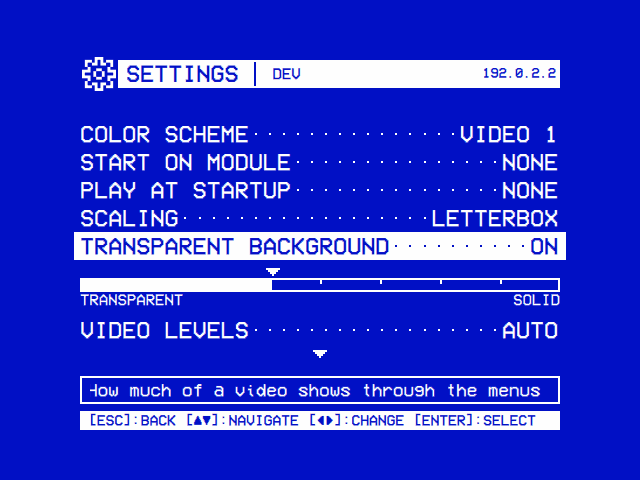
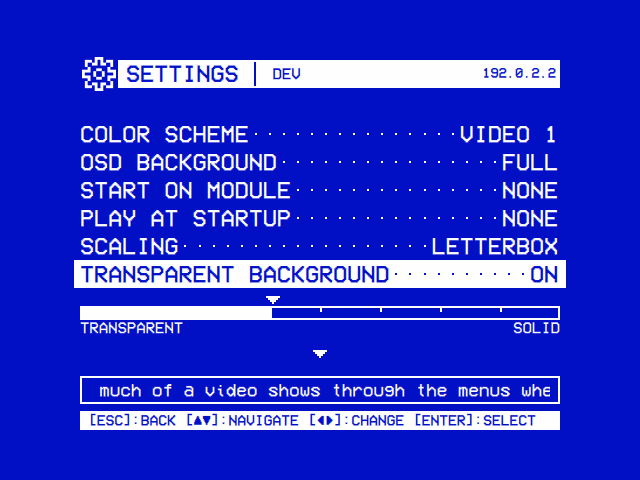
feat: OSD Background in Settings: Full, Off or Window
The owner asked for a general setting for the OSD's background, with
Full, Off and Window.

Settings → OSD Background (app.osd_background, Full by default):

- Full: the colour scheme's background over the whole screen, as before.
- Off: none. The menus on black, as a deck's on-screen display with
  nothing playing, in whichever of the scheme's two colours is the
  lighter, so a scheme with dark text (T-120) stays legible.
- Window: a window of the scheme's background behind the menus, framed
  in its colour, black around it. The window is the area the views lay
  their content out in, with a margin on every side, on art pixels.

OsdGround (views/Components) draws it: under every view in Main.qml,
and in each layer that hides the view under it (PromptScreen, the
on-screen keyboard and info screen below the title bar, the NFC card
writer, Bluetooth's details), so the window or the black holds under
every dialog. Over a video behind the menus (Transparent Background)
the ground keeps the setting's solidity, and in Window only the window
lies over the picture, which shows whole around it. The loading screen
and the boot screen keep their full-screen ground: the tape's picture,
not the OSD's.

Docs: the README's highlights and Settings tour (the settings
screenshot retaken, Window and Off added), ARCHITECTURE (OsdGround, the
colours in Off, the ground over a video) and CONTRIBUTING.

Claude-Session: https://claude.ai/code/session_01BPj7F5bUAW2FbHbUrDiQbs

Changed region(s): [[0.0938, 0.3125, 0.9062, 0.7188], [0.125, 0.7812, 0.875, 0.8438], [0.7812, 0.3125, 0.875, 0.3438]]

diff --git a/Main.qml b/Main.qml
@@ -21,7 +21,9 @@ Window {
     visibility: Qt.platform.os === "osx" ? Window.AutomaticVisibility
                                          : Window.FullScreen
     visible: true
-    color: root.surfaceColor
+    // Under everything: what OSD BACKGROUND puts around its window (black
+    // but for FULL). OsdGround draws the ground itself, over it.
+    color: root.osdBackground === "Full" ? root.surfaceColor : "#000000"
 
     // --- Color Schemes ---
     readonly property var themes: ({
@@ -84,8 +86,18 @@ Window {
     })
     property var allThemes: themes  // may gain a "Custom" entry on startup
     property string currentTheme: "Video 1"
-    property string primaryColor:   (allThemes[currentTheme] || allThemes["Video 1"]).primary
-    property string surfaceColor:   (allThemes[currentTheme] || allThemes["Video 1"]).surface
+    readonly property var theme: allThemes[currentTheme] || allThemes["Video 1"]
+    // Settings' OSD BACKGROUND (app.osd_background), what the menus are drawn
+    // on (Components/OsdGround): "Full", the default, the scheme's background
+    // over the whole screen; "Window", a framed window of it behind what a
+    // view shows (osdWindow), black around it; "Off", none: black, the menus
+    // in whichever of the scheme's two colours is the lighter, as a deck's OSD
+    // with nothing playing. A scheme's dark text (T-120's) would vanish on
+    // black, so Off takes its background colour for the text instead.
+    property string osdBackground: "Full"
+    readonly property bool osdOff: osdBackground === "Off"
+    property string primaryColor:   osdOff ? lighterOf(theme.primary, theme.surface) : theme.primary
+    property string surfaceColor:   osdOff ? "#000000" : theme.surface
     // Two colours only, like a deck's on-screen display: everything is drawn in
     // the theme's primary colour on its surface colour. A selection is a solid
     // box with its text in the surface colour, and anything dimmed is dithered
@@ -101,6 +113,22 @@ Window {
     // pixel-drawn OSD elements (Components/Osd*, PixelIcon) are built on.
     readonly property int px: Math.max(1, Math.floor(sh / 240))
 
+    // OSD BACKGROUND's window: the area the views lay their content out in
+    // (74 to 566 across and 57 to 430 down, of 640×480: the title bar's logo
+    // to the hint bar), with 12 more on every side, on art pixels.
+    readonly property rect osdWindow: {
+        var left = snapPx(sw * 0.096875), right = snapPx(sw * 0.903125)
+        var top = snapPx(sh * 0.09375), bottom = snapPx(sh * 0.9208333)
+        return Qt.rect(left, top, right - left, bottom - top)
+    }
+    function snapPx(v) { return Math.round(v / px) * px }
+
+    // The lighter of two colours, by how bright the eye finds them.
+    function lighterOf(a, b) {
+        function luma(c) { var k = Qt.color(c); return 0.2126 * k.r + 0.7152 * k.g + 0.0722 * k.b }
+        return luma(a) >= luma(b) ? a : b
+    }
+
     Connections {
         target: appCore
         function onAppSettingChanged(key, value) {
@@ -110,6 +138,8 @@ Window {
                 root.backdropSolidity = root.solidityOf(value)
             } else if (key === "loading_effect") {
                 root.loadingEffect = value !== "Off"
+            } else if (key === "osd_background") {
+                root.osdBackground = root.osdBackgroundOf(value)
             } else if (key === "mouse_pointer") {
                 root.pointerSetting = String(value)
                 if (root.pointerShown)
@@ -157,6 +187,7 @@ Window {
         root.backdropSolidity = root.solidityOf(cfg.app && cfg.app.transparent_background)
         root.pointerSetting = String((cfg.app && cfg.app.mouse_pointer) || "5")
         root.loadingEffect = !(cfg.app && cfg.app.loading_effect === "Off")
+        root.osdBackground = root.osdBackgroundOf(cfg.app && cfg.app.osd_background)
 
         // Screensaver: the tracker starts disabled; this is the single place the
         // saved setting is applied (live changes land in onAppSettingChanged above,
@@ -332,6 +363,9 @@ Window {
         var s = String(raw === undefined || raw === null ? "" : raw).trim().toLowerCase()
         return s === "on" || s === "dim" || !isNaN(parseInt(s))
     }
+    function osdBackgroundOf(raw) {
+        return raw === "Window" || raw === "Off" ? raw : "Full"
+    }
     function solidityOf(raw) {
         var s = String(raw === undefined || raw === null ? "" : raw).toLowerCase()
         if (s === "on") return 0
@@ -346,12 +380,15 @@ Window {
         visible: root.videoActive
         z: root.videoBehind ? -2 : 5000
     }
-    Rectangle {
+    // What the menus are drawn on (OSD BACKGROUND), under every view. Over a
+    // video behind them, as solid as Transparent Background says, and in
+    // WINDOW only the window, the picture showing whole around it.
+    OsdGround {
         anchors.fill: parent
         z: -1
-        visible: root.videoBehind && root.backdropSolidity > 0
-        color: root.surfaceColor
-        opacity: root.backdropSolidity / 100
+        visible: !root.videoBehind || root.backdropSolidity > 0
+        opacity: root.videoBehind ? root.backdropSolidity / 100 : 1
+        surround: !root.videoBehind
     }
 
     // A running user script suppresses the screen saver too — a takeover script

diff --git a/views/Components/OsdGround.qml b/views/Components/OsdGround.qml
@@ -1,0 +1,48 @@
+import QtQuick
+
+// The ground the OSD is drawn on, as Settings' OSD BACKGROUND has it
+// (root.osdBackground):
+//   FULL    the colour scheme's background all over (the default);
+//   WINDOW  a window of it behind what a view shows (root.osdWindow), framed
+//           in the scheme's colour, black around it;
+//   OFF     none: black, the menus in the scheme's lighter colour on it, as a
+//           deck's OSD with nothing playing (root.surfaceColor is then black).
+//
+// Main.qml lays one under every view. A full-screen layer that hides the view
+// under it (PromptScreen, the on-screen keyboard, an info screen) lays its own,
+// so the window goes on under it just as it was. It is laid out in screen
+// coordinates, in a layer that fills the screen: anchors.fill its area, or a
+// strip of it (the keyboard's, below the title bar), and the window shows
+// through that strip as it lies on the screen.
+//
+//     OsdGround { anchors.fill: parent }
+Item {
+    id: ground
+
+    // Black around the window. Main.qml turns it off over a video playing
+    // behind the menus, which then shows there whole.
+    property bool surround: true
+
+    readonly property bool windowed: root.osdBackground === "Window"
+    clip: windowed
+
+    Rectangle {
+        anchors.fill: parent
+        visible: !ground.windowed || ground.surround
+        color: ground.windowed ? "#000000" : root.surfaceColor
+    }
+
+    // The window, framed: placed where it lies on the screen, whatever part of
+    // the screen this ground covers.
+    Rectangle {
+        visible: ground.windowed
+        x: root.osdWindow.x - ground.x
+        y: root.osdWindow.y - ground.y
+        width: root.osdWindow.width
+        height: root.osdWindow.height
+        color: root.surfaceColor
+        border.color: root.primaryColor
+        border.width: root.px
+        antialiasing: false
+    }
+}

diff --git a/views/Settings.qml b/views/Settings.qml
@@ -64,6 +64,19 @@ FocusScope {
             moduleId: ""
         })
 
+        // OSD Background — what the menus are drawn on (Components/OsdGround,
+        // read in Main.qml): the colour scheme's background over the whole
+        // screen, none (black), or a framed window of it behind the menus.
+        items.push({
+            type: "list_single",
+            key: "osd_background",
+            label: "OSD Background",
+            options: ["Full", "Off", "Window"],
+            value: root.osdBackgroundOf(appSettings["osd_background"]),
+            description: "What the menus are drawn on\n[FULL] The color scheme's background, all over  [OFF] None, the menus on black like a deck's on-screen display  [WINDOW] A framed window of it behind the menus, black around it",
+            moduleId: ""
+        })
+
         // Start on Module — pick a module to auto-launch into on startup.
         // Only present enabled modules as options so disabled ones won't display.
         // The setting is keyed by module id and the picker shows the display name

diff --git a/views/Components/PromptScreen.qml b/views/Components/PromptScreen.qml
@@ -18,7 +18,7 @@ import QtQuick
 //         currentIndex: choiceIndex
 //         hint: root.hints.back + ":BACK " + root.hints.navigate + ":NAVIGATE " + root.hints.select + ":SELECT"
 //     }
-Rectangle {
+Item {
     id: prompt
 
     // The question, or for a notice what happened: in the title bar.
@@ -40,7 +40,11 @@ Rectangle {
     default property alias content: extra.data
 
     anchors.fill: parent
-    color: root.surfaceColor
+
+    // Over the view it asks in, on the ground every view has (OSD BACKGROUND).
+    OsdGround {
+        anchors.fill: parent
+    }
 
     // The first answer in the window.
     property int firstShown: 0

diff --git a/views/Components/InfoPanel.qml b/views/Components/InfoPanel.qml
@@ -79,12 +79,12 @@ FocusScope {
                                        ? details.summary : (loading ? "loading…" : "")
     readonly property var rows: details.rows || []
 
-    // Everything under the title bar.
-    Rectangle {
+    // Everything under the title bar, on the ground every view has (OSD
+    // BACKGROUND): a window goes on under it as it was.
+    OsdGround {
         y: root.sh * 0.1916667 //92
         width: parent.width
         height: parent.height - y
-        color: root.surfaceColor
     }
 
     Row {

diff --git a/views/Components/OnScreenKeyboard.qml b/views/Components/OnScreenKeyboard.qml
@@ -79,12 +79,12 @@ FocusScope {
     readonly property real cellH: root.sh * 0.0666667 //32
     readonly property real fontSize: root.sh * 0.05 //24
 
-    // Everything under the title bar.
-    Rectangle {
+    // Everything under the title bar, on the ground every view has (OSD
+    // BACKGROUND): a window goes on under it as it was.
+    OsdGround {
         y: root.sh * 0.1916667 //92
         width: parent.width
         height: parent.height - y
-        color: root.surfaceColor
     }
 
     Column {

diff --git a/views/Components/NfcCardWriter.qml b/views/Components/NfcCardWriter.qml
@@ -143,9 +143,12 @@ FocusScope {
         }
     }
 
-    Rectangle {
+    Item {
         anchors.fill: parent
-        color: root.surfaceColor
+
+        OsdGround {
+            anchors.fill: parent
+        }
 
         Column {
             anchors.centerIn: parent

diff --git a/views/Bluetooth.qml b/views/Bluetooth.qml
@@ -311,9 +311,8 @@ FocusScope {
                 detailsText.scrollBy(1)
         }
 
-        Rectangle {
+        OsdGround {
             anchors.fill: parent
-            color: root.surfaceColor
         }
 
         AppBar {

diff --git a/ARCHITECTURE.md b/ARCHITECTURE.md
@@ -54,7 +54,7 @@ The guiding idea: **browse structured content, then hand off to the right tool f
     ModuleList.qml
     Settings.qml
     ...
-    Components/                     # shared QML components (AppBar, HintBar, MenuRow, HelpLine, ScrollMarks, TreeBrowser, InfoPanel, EntryOptions, PlaylistAdder, PlayerMenu, LoadingScreen, PromptScreen, MousePointer, OnScreenKeyboard, WebPlayerBrowse, WebPlayerLaunch, the Osd* elements, ChoiceOverlay, qmldir)
+    Components/                     # shared QML components (AppBar, HintBar, MenuRow, HelpLine, ScrollMarks, TreeBrowser, InfoPanel, EntryOptions, PlaylistAdder, PlayerMenu, LoadingScreen, PromptScreen, OsdGround, MousePointer, OnScreenKeyboard, WebPlayerBrowse, WebPlayerLaunch, the Osd* elements, ChoiceOverlay, qmldir)
     BootScreen.qml                  # boot screen of the 240-MP OS image (see os/README.md)
   Main.qml                          # app root
   CMakeLists.txt
@@ -284,7 +284,7 @@ With Settings → **Transparent Background** (`app.transparent_background`: how 
 - **`EmbeddedMpv`** (`src/player/EmbeddedMpv.h/.cpp`) is mpv as a library. libmpv is opened at run time with `QLibrary` (`libmpv.so.2`, or `libmpv.2.dylib` in Homebrew's prefixes), never linked, so the app runs where it is missing; `mpvController.embeddedAvailable()` says whether it loaded, and Settings offers the row only then. Its headers are optional at build time (`pkg-config mpv`, so `libmpv-dev` / Homebrew's mpv); without them `MP240_EMBEDDED_MPV` is left undefined and it is never available.
 - **The same session.** `sessionArgs()` builds the command line the subprocess gets, and `EmbeddedMpv::start()` turns it into options and a playlist: `--x=y` is option `x`, a repeated list option (`--script`, `--sub-file`, `--http-header-fields`) is gathered and set whole as a node array, so an item keeps any character, and an option this libmpv doesn't know is skipped with a warning where the mpv command line would refuse to start. On top: `vo=libmpv`, `idle=once` (it quits when its playlist has played out, as the process exits), `input-default-bindings=yes` (libmpv leaves them off). Decoding uses each profile's copy-back mode (Pi 4 `drm-copy,v4l2m2m-copy`, Pi 3 `v4l2m2m-copy`, Pi 5 `auto-copy-safe`, desktop Linux `vaapi-copy,nvdec-copy,no`, macOS `videotoolbox-copy`), the `mpv_video_args` override is not used, and libmpv reads no `mpv.conf`. The IPC socket, the OSC scripts and every signal work as for the process; there is no `DisplayHandoff`, since the app keeps the screen.
 - **The picture** comes from libmpv's software renderer (`MPV_RENDER_API_TYPE_SW`), on a thread of its own, at the pixel size of the **`VideoSurface`** item (`src/player/VideoSurface.h/.cpp`, `import MP240.Video`) that shows it: the same CPU colour conversion and scaling `--vo=drm` does on a Pi 4, into memory rather than a KMS buffer. It works on every scene graph backend. On a Pi 3 the CPU is short for it.
-- **Back** is mapped by the session's input.conf to `script-message 240mp-menu` (the OSC's own menu, while open, still takes it first). `detachToMenus()` then emits `playbackEnded(pos, dur, "stopped")`, unless its player has a menu of its own (below): the module saves where it got to, reports it stopped, and goes back, while the session goes on (`mpvController.background`). Its position is followed but no longer reported. `Main.qml` puts the `VideoSurface` over everything while a session plays full screen and under the views while `background` (`root.videoBehind`); the views draw no background of their own, so the picture is theirs, and the background colour lies between them at the setting's solidity (`root.backdropSolidity`). Full-screen dialogs keep their own background, and the title bar's logo gets a box of it.
+- **Back** is mapped by the session's input.conf to `script-message 240mp-menu` (the OSC's own menu, while open, still takes it first). `detachToMenus()` then emits `playbackEnded(pos, dur, "stopped")`, unless its player has a menu of its own (below): the module saves where it got to, reports it stopped, and goes back, while the session goes on (`mpvController.background`). Its position is followed but no longer reported. `Main.qml` puts the `VideoSurface` over everything while a session plays full screen and under the views while `background` (`root.videoBehind`); the views draw no background of their own, so the picture is theirs, and their ground (`OsdGround`, in OSD BACKGROUND's shape: all over, or only its window, the picture showing whole around it) lies between them at the setting's solidity (`root.backdropSolidity`). Full-screen dialogs keep their own ground, and the title bar's logo gets a box of it.
 - **The setting** is a slider in Settings: its line, `ON` or `OFF`, with the deck's tape bar (`OsdTapeBar`) under it from TRANSPARENT to SOLID, which ◄ ► move by 10 and save at once, so the menus over a video show each step. At SOLID none of the picture shows, but the video plays on, sound and all. Select turns the setting off (`Off`, the bar's lines left empty) and back on at the bar's value, as it does a module's toggle; ◄ ► turn it on too. The bar takes whole lines under its own, so the list scrolls by lines as before. Its first values, `On` and `Dim`, read as `0` and `60`. `100` was off until SOLID kept the video playing, and now reads as SOLID. `Main.qml`'s `backgroundOn()` and `MpvController::transparentBackground()` read the value the same way.
 - **Chosen again** (the same command line apart from `--start`), the session is not reloaded: `reattach()` brings it back full screen. A module resuming at the point it saved when back left it carries on where the picture is now; any other start (from the beginning, say) is sought.
 - **Back to it from the main menu.** Right after `loadAndPlay()` a player notes the session: `noteSession({ module, title, params })`, `params` being its own `navParams`. Every `loadAndPlay()` clears the note, so a player that notes nothing leaves none. While the session plays behind the menus, `backgroundNote` (`root.behindNote`) holds it, and the main menu (`views/ModuleList.qml`) leads with a row for it, `► <title>`, the cursor on it. Select opens the module with `{ resumePlayer: params }`, and its tree opens the player with them as if chosen from RECENTLY WATCHED. A player that finds its own video in `root.behindNote` skips its resume prompt and plays from the point back saved, so the same video chosen in the tree comes back at once too. YouTube (by `videoId`) and Local Files (by path, with the `plPos` and `shuffle` it was started with, so the command line matches) note their sessions. The other players don't yet, so their videos come back only by choosing them again.
@@ -652,9 +652,15 @@ A question or a notice, full screen, in the window every view has: the question 
 
 It only draws: the host keeps its keys, its cursor and its visibility, so a dialog becomes one by swapping its drawing for it. Items declared inside it go between the message and the answers, centring themselves across its width (the pairing code in `BluetoothPrompt`). Every question and notice in the app is one: the players' resume prompts and error screens, Settings' quit, the update's install, the script's run, a new button for Controls, Bluetooth pairing, and `ChoiceOverlay` (so `EntryOptions` and the Plex PLAY chooser) too.
 
+### OsdGround (`views/Components/OsdGround.qml`)
+
+What the OSD is drawn on, as Settings → **OSD Background** (`app.osd_background`, `root.osdBackground`) has it: **Full** (the default), the colour scheme's background all over; **Window**, a window of it behind what a view shows, framed in the scheme's colour, black around it; **Off**, none, black (with the colours above). The window (`root.osdWindow`) is the area the views lay their content out in, the title bar's logo to the hint bar, 74 to 566 across and 57 to 430 down at 640×480, with 12 more on every side, on art pixels.
+
+`Main.qml` lays one under every view (`z: -1`, over the window's own colour, black but for Full). Over a video behind the menus it is as solid as Transparent Background says, and in Window only the window is drawn (`surround: false`), the picture showing whole around it. A layer that hides the whole view under it lays its own (`PromptScreen`, the `OnScreenKeyboard` and `InfoPanel` below the title bar, `NfcCardWriter`, Bluetooth's DETAILS), never a `Rectangle` of `root.surfaceColor`, so the window goes on under it just as it was: it works in screen coordinates, the window placed where it lies on the screen whatever part of it the ground covers. `LoadingScreen` and the boot screen keep their own full-screen ground: the tape's picture, not the OSD's.
+
 ### VCR OSD elements
 
-The UI keeps to two colours, like a deck's on-screen display: the theme's `primary` on its `surface`. `Main.qml` maps `secondaryColor`, `tertiaryColor` and `accentColor` to `primaryColor`, so existing views follow without change. Within that:
+The UI keeps to two colours, like a deck's on-screen display: the theme's `primary` on its `surface`. `Main.qml` maps `secondaryColor`, `tertiaryColor` and `accentColor` to `primaryColor`, so existing views follow without change. Settings → **OSD Background** Off makes the two the theme's lighter colour and black (`surfaceColor` black, `primaryColor` whichever of `primary` and `surface` is lighter, so a theme with dark text, T-120, doesn't vanish), and every view follows that too. Within that:
 
 - a selection is a solid box with its text in `surfaceColor`;
 - anything dimmed is dithered with `Dither` instead of given a lower opacity;

diff --git a/README.md b/README.md
@@ -20,6 +20,7 @@ On a Raspberry Pi, 240-MP can also be the whole system. The **240-MP OS** image 
 - **Transparent Background.** Back from a video returns to the menus while the video keeps playing behind them, like a deck's menu over the tape, and the first row of the main menu takes it back to full screen. A Local Files or YouTube video first opens a menu of its own over the picture: its module's settings for it, Favorites, Browse, and Close Video. A slider from TRANSPARENT to SOLID sets how much of it shows through: at SOLID none, while it plays on, sound and all. Select on the setting turns it off. It needs libmpv (`libmpv2` on Raspberry Pi OS, part of Homebrew's mpv on macOS).
 - **Bluetooth** in Settings: search for a keyboard, gamepad or remote and pair it from the couch. A keyboard's pairing code comes up on screen, to type on it.
 - **A mouse pointer** (a mouse, or a keyboard's touchpad) that shows while the mouse moves and hides again after 5 seconds (Settings → Mouse Pointer).
+- **OSD Background** in Settings: the color scheme's background all over (Full), none, the menus on black like a deck's on-screen display (Off), or a framed window of it behind the menus, black around it (Window). Over a video behind the menus, a window lies over the picture, which shows whole around it.
 - **A tape loading** while a video starts: VHS noise in the theme's colours and a dubbing deck's display, with where the video is and, once known, how long it is. Settings → Loading Effect turns the noise off.
 - **Scaling** for 16:9 pictures on a 4:3 screen: Letterbox, 14:9, Pan & Scan or Anamorphic. Set it for every module, or for one module in its own settings.
 - **Netflix and Prime Video** catalogues from TMDB in the same tree. A title plays in the service's own player.
@@ -178,6 +179,12 @@ Once signed in, each opens on the server's Continue Watching and its libraries. 
 <tr><th width="50%">Settings</th><th width="50%">Modules</th></tr>
 <tr><td><img src="docs/screenshots/settings.png" width="100%" alt="Settings" /></td><td><img src="docs/screenshots/settings-modules.png" width="100%" alt="Modules" /></td></tr>
 <tr><td>Laid out like a camcorder's menu. Transparent Background is a slider, the deck's tape bar, from TRANSPARENT to SOLID.</td><td>Each module is turned on and set up from here.</td></tr>
+</table>
+
+<table>
+<tr><th width="50%">OSD Background: Window</th><th width="50%">OSD Background: Off</th></tr>
+<tr><td><img src="docs/screenshots/osd-window.png" width="100%" alt="OSD Background: Window" /></td><td><img src="docs/screenshots/osd-off.png" width="100%" alt="OSD Background: Off" /></td></tr>
+<tr><td>The menus in a framed window of the color scheme's background, black around it. Over a video behind the menus, the picture shows whole around the window.</td><td>No background: the menus on black, like a deck's on-screen display with nothing playing, in the scheme's lighter color.</td></tr>
 </table>
 
 <table>

diff --git a/CONTRIBUTING.md b/CONTRIBUTING.md
@@ -54,7 +54,7 @@ A pure-QML module needs **no C++ changes** — the shell discovers it from its m
 - **Preserve the manifest contract.** If you add a setting, follow the existing [setting types](ARCHITECTURE.md#setting-types); if it needs dynamic options, wire up the `dynamicOptionsReady` / `apply_slot` pattern rather than inventing a new mechanism.
 - **Follow the existing view and navigation patterns** in that module — the `navigateTo` / `goBack` contract and `navListState` position restoration. Don't introduce a different nav style.
 - **Reuse shared `Components`** (e.g. `AppBar`) instead of re-implementing them.
-- **Keep the window standard.** The title bar at the top, the `HintBar` in its fixed place at the foot, whatever is between them. A question or a notice is a `PromptScreen`: the question in the title bar behind a ? (a notice's behind a !), never a small line in the middle with the hint line under it.
+- **Keep the window standard.** The title bar at the top, the `HintBar` in its fixed place at the foot, whatever is between them. A question or a notice is a `PromptScreen`: the question in the title bar behind a ? (a notice's behind a !), never a small line in the middle with the hint line under it. A layer that hides the whole view draws its ground with `OsdGround`, never a `Rectangle` of `root.surfaceColor`, so Settings' OSD Background (its window, or black) holds under it too.
 - **Keep it self-contained** — module source stays under `modules/[name]` and `src/modules/[name]`.
 
 ### Use a Consistent Coding Style
